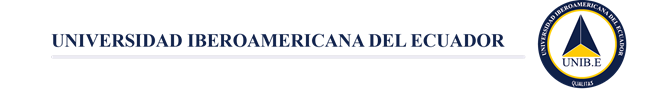
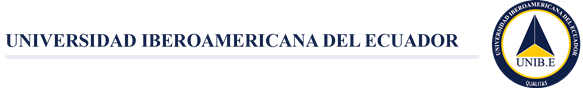
pdf

Changed region(s): [[0.0, 0.0, 1.0, 1.0]]

diff --git a/src/app/components/topic-notification/topic-notification-read/topic-notification-read.component.html b/src/app/components/topic-notification/topic-notification-read/topic-notification-read.component.html
@@ -1,58 +1,58 @@
-<mat-card
-  class="container__form conatiner__card"
-  ngClass.lt-sm="mat-card-lt-sm"
-  fxLayout="column"
-  fxLayoutAlign="center end"
->
+<mat-card id="notification" #notification class="container__form" ngClass.lt-sm="mat-card-lt-sm" fxLayout="column"
+  fxLayoutAlign="center center">
   <img src="../../../assets/unibe_form.png" alt="UNIBE" />
-  <div fxLayout="column" fxLayoutAlign="center end">
-    <p><strong>OFICIO N° </strong>{{ topicNotification?.documentNumber }}</p>
-    <p>Quito, D.M. {{ day }} de {{ month }} del {{ year }}</p>
-  </div>
-
   <div>
-    <span>Señor: </span>
-    <p>
-      <b
-        >{{ topicNotification?.topicStudent?.student?.firstName }}
-        {{ topicNotification?.topicStudent?.student?.secondName }}
-        {{ topicNotification?.topicStudent?.student?.lastName }}
-        {{ topicNotification?.topicStudent?.student?.secondLastname }}</b
-      >
-    </p>
-    <p class="spacing">Presente.</p>
-    <p>De nuestras consideraciones:</p>
-    <p>
-      Por medio de la presente el Comité de Grado de la Carrera de
-      <b>{{ topicNotification?.topicStudent?.student?.career?.name }}</b>
-      de la Universidad Iberoamericana del Ecuador (UNIB.E), en reunión
-      ordinaria No.<b>{{ topicNotification?.meetingNumber }}</b> fecha:
-      <b>{{ topicNotification?.date }}</b
-      >, le informa que su propuesta de investigación titulada:
-      <b> {{ topicNotification?.topicStudent?.topic?.name }}</b> ha sido:
-    </p>
-    <p *ngIf="topicNotification?.topicStudent?.topicEvaluation === 'Aprobado'">
-      <b>APROBADO</b>
-    </p>
-    <p
-      *ngIf="
+    <div fxLayout="column" fxLayoutAlign="center end">
+      <p><strong>OFICIO N° </strong>{{ topicNotification?.documentNumber }}</p>
+      <p>Quito, D.M. {{ day }} de {{ month }} del {{ year }}</p>
+    </div>
+
+    <div fxLayout="column" fxLayoutAlign="start start">
+      <p>{{topicNotification?.trato}}</p>
+      <p>
+        <b>{{ topicNotification?.topicStudent?.student?.firstName }}
+          {{ topicNotification?.topicStudent?.student?.secondName }}
+          {{ topicNotification?.topicStudent?.student?.lastName }}
+          {{ topicNotification?.topicStudent?.student?.secondLastname }}</b>
+      </p>
+      <p class="spacing">Presente.</p>
+      <p>De nuestras consideraciones:</p>
+      <p>
+        Por medio de la presente el Comité de Grado de la Carrera de
+        <b>{{ topicNotification?.topicStudent?.student?.career?.name }}</b>
+        de la Universidad Iberoamericana del Ecuador (UNIB.E), en reunión
+        ordinaria No.<b>{{ topicNotification?.meetingNumber }}</b> fecha:
+        <b>{{ topicNotification?.date }}</b>, le informa que su propuesta de investigación titulada:
+        <b> {{ topicNotification?.topicStudent?.topic?.name }}</b> ha sido:
+      </p>
+      <p *ngIf="topicNotification?.topicStudent?.topicEvaluation === 'Aprobado'">
+        <b>APROBADO</b>
+      </p>
+      <p *ngIf="
         topicNotification?.topicStudent?.topicEvaluation ===
         'Aprobado con observaciones'
-      "
-    >
-      Aprobado con las siguientes observaciones:
-    </p>
-    <p *ngIf="topicNotification?.topicStudent?.topicEvaluation === 'Reprobado'">
-      No ha sido aprobado por los siguientes motivos:
-    </p>
-    <p>{{ topicNotification?.observations }}</p>
-
-    <div class="firma" fxLayout="column" fxLayoutAlign="center center">
-      <img [src]="topicStudent?.student?.sign" alt="" />
-      <p>
-        {{ topicNotification?.topicStudent?.student?.firstName }}
-        {{ topicNotification?.topicStudent?.student?.lastName }}
+      ">
+        Aprobado con las siguientes observaciones:
       </p>
+      <p *ngIf="topicNotification?.topicStudent?.topicEvaluation === 'Reprobado'">
+        No ha sido aprobado por los siguientes motivos:
+      </p>
+      <p>{{ topicNotification?.observations }}</p>
+
+      <div class="firma" fxLayout="column" fxLayoutAlign="center center">
+        <img [src]="topicStudent?.student?.sign" alt="" />
+        <p>
+          {{ topicNotification?.topicStudent?.student?.firstName }}
+          {{ topicNotification?.topicStudent?.student?.lastName }}
+        </p>
+      </div>
+    </div>
+    <div class="no-print" fxLayout="row" fxLayoutAlign="center center">
+      <button mat-raised-button>Salir</button>
+      <button mat-raised-button color="warn">Borrar</button>
+      <button type="submit" class="primary" mat-raised-button (click)="makePdf()">
+        Imprimir
+      </button>
     </div>
   </div>
 </mat-card>

diff --git a/src/app/components/topic-notification/topic-notification-read/topic-notification-read.component.ts b/src/app/components/topic-notification/topic-notification-read/topic-notification-read.component.ts
@@ -1,5 +1,6 @@
-import { Component, OnInit } from '@angular/core';
-import { ActivatedRoute, Router } from '@angular/router';
+import { Component, OnInit, ViewChild, ElementRef } from '@angular/core';
+import { ActivatedRoute } from '@angular/router';
+import { jsPDF } from 'jspdf';
 import { TopicApprovalModel } from 'src/app/models/topic-approval-model';
 import { TopicEvaluation, TopicStudentModel } from 'src/app/models/topic-student-model';
 import { TopicApprovalService } from 'src/app/services/topic-approval.service';
@@ -42,6 +43,27 @@ export class TopicNotificationReadComponent implements OnInit {
     private route: ActivatedRoute,
   ) {
     this.id = this.route.snapshot.paramMap.get('id');
+  }
+
+  print(elementPrint: string) {
+    let printContent = document.getElementById(elementPrint);
+    let WindowPrt = window.open('', '', 'left=0,top=0,width=900,height=900,toolbar=0,scrollbars=0,status=0');
+    if(printContent) WindowPrt?.document.write(printContent.innerHTML);
+    WindowPrt?.document.close();
+    WindowPrt?.focus();
+    WindowPrt?.print();
+    WindowPrt?.close();
+  }
+
+  @ViewChild('notification', {static: false}) el!: ElementRef;
+
+  makePdf() {
+    let pdf = new jsPDF('p', 'pt', 'a4');
+    pdf.html(this.el.nativeElement, {
+      callback: (pdf) => {
+        pdf.save("notification.pdf");
+      }
+    })
   }
 
   ngOnInit(): void {

diff --git a/src/app/components/topic-denunciation/topic-denunciation.component.css b/src/app/components/topic-denunciation/topic-denunciation.component.css
@@ -11,15 +11,8 @@
 }
 
 mat-card {
-  padding: 3.5rem;
+  padding: 1cm 3cm 1cm 3cm;
   width: 800px;
-}
-.investigationLine {
-  width: 60%;
-}
-
-.form-field-max mat-form-field {
-  width: 100%;
 }
 
 .mat-card-lt-sm {
@@ -28,9 +21,15 @@ mat-card {
 }
 
 .container__form img {
-  width: 85%;
-  height: auto;
-  margin: 20px;
+  width: 100%;
+  margin: 0 0 1cm 0;
+}
+.investigationLine {
+  width: 60%;
+}
+
+.form-field-max mat-form-field {
+  width: 100%;
 }
 
 h4 {
@@ -61,15 +60,17 @@ button {
   color: #fff;
 }
 
+@media print {
+  .no-print {
+    display: none !important;
+  }
+}
+
 @media screen and (max-width: 960px) {
   .container__form {
     width: 100%;
   }
-  .container__form img {
-    width: 100%;
-    height: auto;
-    margin: 20px;
-  }
+
   .firma img {
     margin: 0;
     width: 85px;
@@ -81,11 +82,7 @@ button {
     padding: 0;
     width: 100%;
   }
-  .container__form img {
-    width: 95vw;
-    height: auto;
-    margin: 10px;
-  }
+
   .firma img {
     width: 85px;
     margin: 0;

diff --git a/src/app/components/topic-notification/topic-notification.component.css b/src/app/components/topic-notification/topic-notification.component.css
@@ -38,7 +38,7 @@ button {
 }
 
 mat-card {
-  padding: 3.5rem;
+  padding: 1cm 3cm 1cm 3cm;
   width: 800px;
 }
 
@@ -48,9 +48,8 @@ mat-card {
 }
 
 .container__form img {
-  width: 85%;
-  height: auto;
-  margin: 20px;
+  width: 100%;
+  margin: 0 0 1cm 0;
 }
 
 .container__form mat-form-field {
@@ -87,15 +86,15 @@ small {
   color: #fff;
 }
 
+@media print {
+  .no-print {
+    display: none !important;
+  }
+}
+
 @media screen and (max-width: 960px) {
   .container__form {
     width: 100%;
-  }
-
-  .container__form img {
-    width: 100%;
-    height: auto;
-    margin: 20px;
   }
 
   .firma img {
@@ -112,12 +111,6 @@ small {
 
   :host ::ng-deep .mat-horizontal-content-container {
     width: 100%;
-  }
-
-  .container__form img {
-    width: 95vw;
-    height: auto;
-    margin: 10px;
   }
 
   .firma img {
